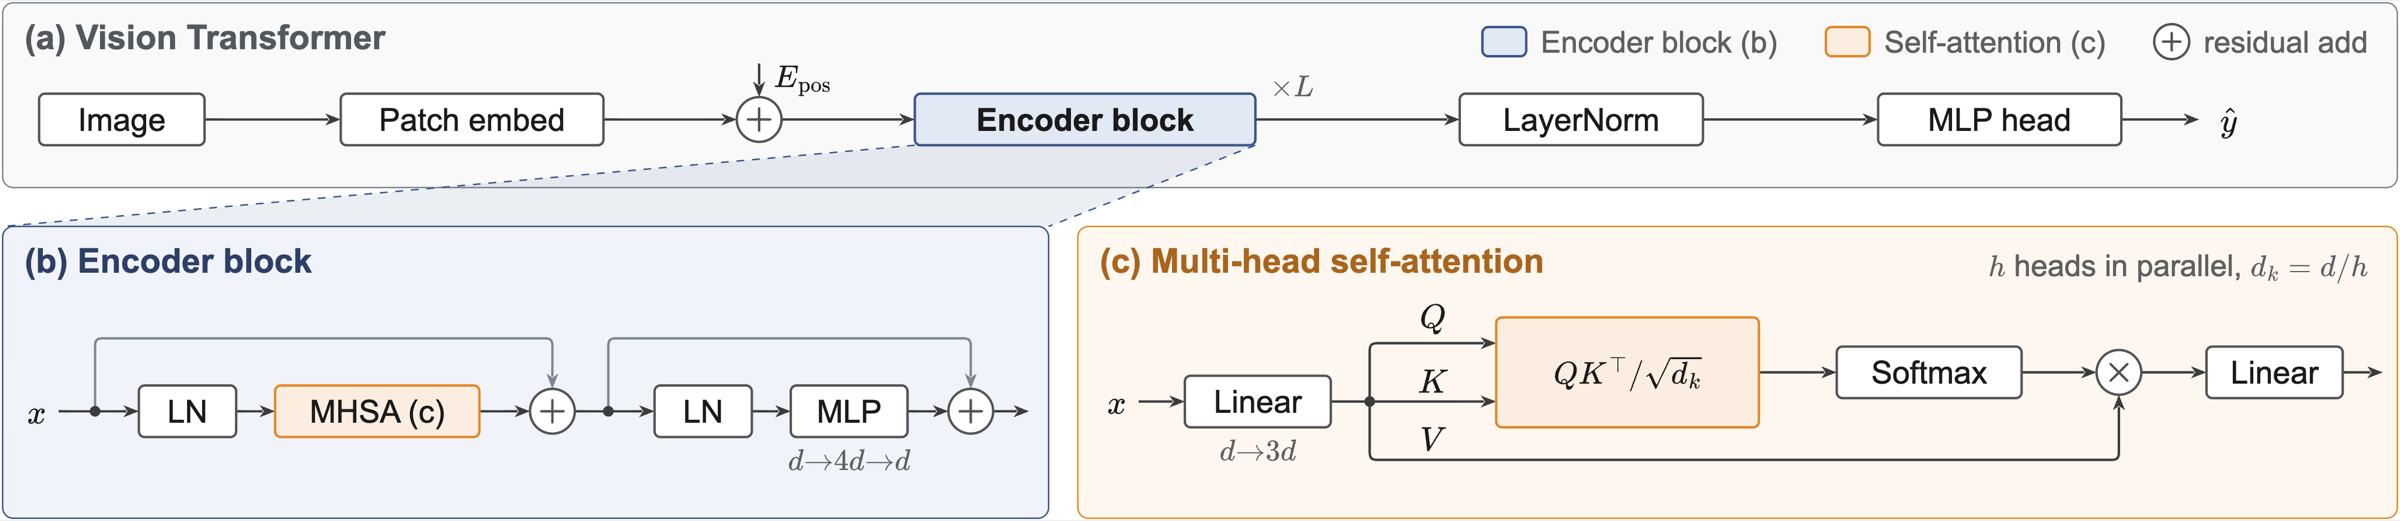
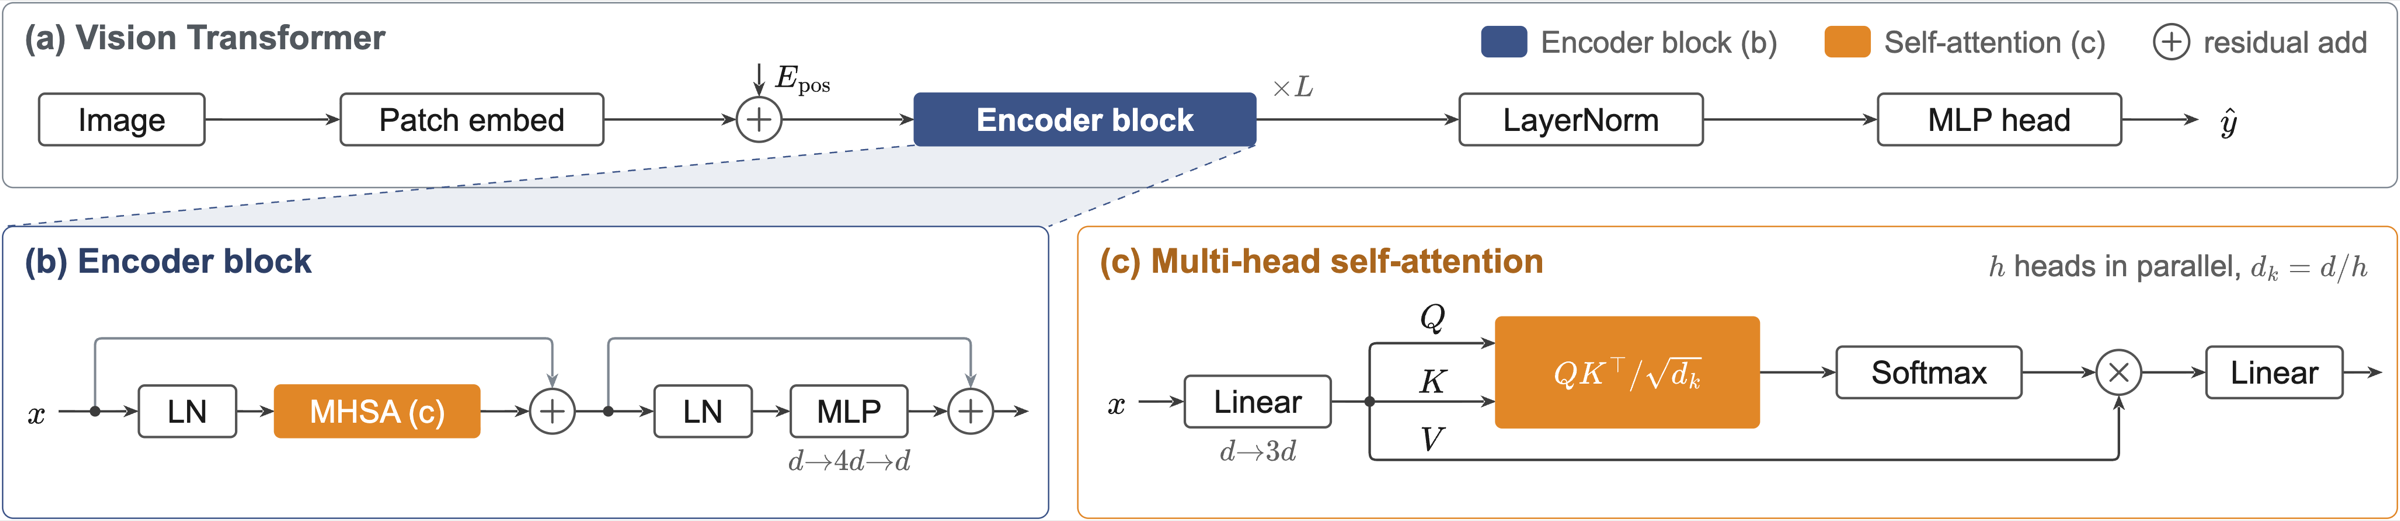
Give theme presets distinct rendering looks
Add theme.look (node fill: tint, solid, gradient or outline; hard
offset shadow; panel: tint, plain or title tab). navy now uses solid
fills with unfilled panels, slate uses gradients, square corners and
title tabs, terracotta uses heavy outlines with offset shadows.
Regenerate the theme images and document the new fields.

diff --git a/skills/pt-perfect/assets/kit/scene.tsx b/skills/pt-perfect/assets/kit/scene.tsx
@@ -88,6 +88,18 @@ export class Scene {
     if (!t) throw new Error(`Unknown tone "${name}"`);
     return t;
   }
+  /** Fill and text colour of a node in the theme's look; an explicit fill is kept as given. */
+  private paint(name: string | undefined, fill?: string): { fill: string; text: string } {
+    const T = this.theme, tone = this.tone(name), look = T.look.node;
+    if (fill) return { fill, text: T.ink };
+    if (look === 'outline') return { fill: T.paper, text: T.ink };
+    if (!name || name === 'neutral' || look === 'tint') return { fill: tone.fill, text: T.ink };
+    if (look === 'solid') return { fill: tone.stroke, text: T.paper };
+    const id = `g${tone.fill.slice(1)}`;
+    this.defs.set(id, <linearGradient key={id} id={id} x1="0" y1="0" x2="0" y2="1"><stop offset="0" stopColor={mix(tone.fill, T.paper, 0.75)} /><stop offset="1" stopColor={mix(tone.fill, tone.stroke, 0.22)} /></linearGradient>);
+    return { fill: `url(#${id})`, text: T.ink };
+  }
+  private defs = new Map<string, ReactNode>();
   private push(layer: Layer, el: ReactNode) { this.layers[layer].push(<g key={this.n++}>{el}</g>); }
   private register(item: Item) {
     if (this.items.some(i => i.id === item.id)) throw new Error(`Duplicate id "${item.id}"`);
@@ -179,10 +191,12 @@ export class Scene {
     const x = spec.x ?? (spec.cx ?? 0) - w / 2, y = spec.y ?? (spec.cy ?? 0) - h / 2;
     const box = { x, y, w, h };
     this.register({ id, kind: 'node', box, group: spec.group });
-    this.push('body', <rect data-id={id} x={r(x)} y={r(y)} width={r(w)} height={r(h)} rx={spec.radius ?? T.radius} fill={spec.fill ?? tone.fill} stroke={tone.stroke} strokeWidth={T.stroke.node} strokeDasharray={spec.dash ? '2.4 1.8' : undefined} />);
+    const rx = spec.radius ?? T.radius, sh = T.look.shadow, paint = this.paint(spec.tone, spec.fill);
+    if (sh > 0) this.push('back', <rect x={r(x + sh)} y={r(y + sh)} width={r(w)} height={r(h)} rx={rx} fill={tone.stroke} />);
+    this.push('body', <rect data-id={id} x={r(x)} y={r(y)} width={r(w)} height={r(h)} rx={rx} fill={paint.fill} stroke={tone.stroke} strokeWidth={T.stroke.node} strokeDasharray={spec.dash ? '2.4 1.8' : undefined} />);
     if (lines.length) {
       const first = y + h / 2 - optical / 2 + lines[0].cap;
-      lines.forEach((l, i) => this.label(`${id}.${i}`, l, { x: x + w / 2, y: first + base[i], color: spec.color ?? T.ink, inside: id, pivot: spec.vertical ? [x + w / 2, y + h / 2] : undefined }));
+      lines.forEach((l, i) => this.label(`${id}.${i}`, l, { x: x + w / 2, y: first + base[i], color: spec.color ?? paint.text, inside: id, pivot: spec.vertical ? [x + w / 2, y + h / 2] : undefined }));
     }
     return box;
   }
@@ -262,11 +276,17 @@ export class Scene {
    */
   panel(id: string, box: Box, o: { title?: Text; tone?: string; dash?: boolean; fill?: string | false; at?: 'tl' | 'tr' | 'tc' | 'below'; size?: number; color?: string; pad?: number } = {}): Box {
     const tone = this.tone(o.tone ?? 'grey'), T = this.theme, pad = o.pad ?? 4.5, at = o.at ?? 'tl';
-    this.region(id, box, { tone: o.tone ?? 'grey', dash: o.dash ?? false, fill: o.fill ?? mix(tone.fill, T.paper, 0.5) });
+    const look = T.look.panel, tab = look === 'tab' && at === 'tl' && !!o.title;
+    this.region(id, box, { tone: o.tone ?? 'grey', dash: o.dash ?? false, fill: o.fill ?? (look === 'tint' ? mix(tone.fill, T.paper, 0.5) : false) });
     if (o.title) {
       const l = this.line(o.title, { size: o.size ?? T.size.label, bold: true });
+      if (tab) {
+        // Filled tab in the corner, sized to the title so it takes no room from the panel's content.
+        const w = l.w + 2 * pad, h = l.cap + 1.6 * pad, R = T.radius + 1, c = Math.min(R, h / 2);
+        this.push('back', <path d={`M${r(box.x)} ${r(box.y + h)}V${r(box.y + R)}a${R} ${R} 0 0 1 ${R} ${-R}H${r(box.x + w)}V${r(box.y + h - c)}a${c} ${c} 0 0 1 ${-c} ${c}Z`} fill={tone.stroke} />);
+      }
       if (at === 'below') this.label(`${id}.title`, l, { x: cx(box), y: bottom(box) + 4, ax: 'c', ay: 'top', color: o.color ?? T.ink });
-      else this.label(`${id}.title`, l, { x: at === 'tl' ? box.x + pad : at === 'tr' ? right(box) - pad : cx(box), y: box.y + pad, ax: at === 'tl' ? 'l' : at === 'tr' ? 'r' : 'c', ay: 'top', color: o.color ?? tone.text });
+      else this.label(`${id}.title`, l, { x: at === 'tl' ? box.x + pad : at === 'tr' ? right(box) - pad : cx(box), y: box.y + pad * (tab ? 0.8 : 1), ax: at === 'tl' ? 'l' : at === 'tr' ? 'r' : 'c', ay: 'top', color: o.color ?? (tab ? T.paper : tone.text) });
     }
     return box;
   }
@@ -306,7 +326,7 @@ export class Scene {
       const sw = column ? colW : symW(e), sx = x + sw / 2, eid = `${id}.${i}`;
       if (e.op) boxes.push(this.op(eid, e.op, { cx: sx, cy: y, r: R, tone: e.tone }));
       else if (e.icon) boxes.push(this.icon(eid, e.icon, { cx: sx, cy: y, size: 7, tone: e.tone }));
-      else if (e.swatch) { const t = this.tone(e.swatch); boxes.push(this.raw(eid, <rect x={r(sx - 4.5)} y={r(y - 3)} width={9} height={6} rx={1.2} fill={e.fill ?? t.fill} stroke={t.stroke} strokeWidth={T.stroke.node} />, { x: sx - 4.5, y: y - 3, w: 9, h: 6 }, { layer: 'label' })); }
+      else if (e.swatch) { const t = this.tone(e.swatch); boxes.push(this.raw(eid, <rect x={r(sx - 4.5)} y={r(y - 3)} width={9} height={6} rx={1.2} fill={this.paint(e.swatch, e.fill).fill} stroke={t.stroke} strokeWidth={T.stroke.node} />, { x: sx - 4.5, y: y - 3, w: 9, h: 6 }, { layer: 'label' })); }
       else if (e.wire) { const c = this.tone(e.wire.tone).line, L = T.arrow.length, W = T.arrow.width / 2, xe = sx + 7; boxes.push(this.raw(eid, <g><path d={`M${r(sx - 7)} ${r(y)}H${r(xe - L * 0.8)}`} stroke={c} strokeWidth={T.stroke.wire} strokeDasharray={e.wire.dash ? '2.4 1.8' : undefined} fill="none" /><path d={`M${r(xe)} ${r(y)}L${r(xe - L)} ${r(y - W)}L${r(xe - L * 0.72)} ${r(y)}L${r(xe - L)} ${r(y + W)}Z`} fill={c} /></g>, { x: sx - 7, y: y - W, w: 14, h: 2 * W }, { layer: 'label' })); }
       boxes.push(this.label(`${eid}.text`, lines[i], { x: x + sw + 3, y, ax: 'l', ay: 'mid', color: T.muted }));
       if (column) y += o.rowGap ?? 11; else x += widths[i] + gap;
@@ -393,6 +413,7 @@ export class Scene {
     const W = r(this.width), H = r(this.height);
     return <svg xmlns="http://www.w3.org/2000/svg" width={`${W}pt`} height={`${H}pt`} viewBox={`0 0 ${W} ${H}`} fontFamily={this.theme.fontFamily} role="img">
       <title>{meta.title}</title><desc>{meta.desc}</desc>
+      {this.defs.size > 0 && <defs>{[...this.defs.values()]}</defs>}
       <rect width={W} height={H} fill={this.theme.paper} />
       <g id="back">{this.layers.back}</g><g id="wires">{this.layers.wire}</g><g id="body">{this.layers.body}</g><g id="labels">{this.layers.label}</g>
     </svg>;

diff --git a/skills/pt-perfect/assets/kit/themes.ts b/skills/pt-perfect/assets/kit/themes.ts
@@ -31,7 +31,7 @@ const palette = (t: Theme, ink: string, c: { grey: string; blue: string; green: 
 export const themes: Record<string, (t: Theme) => void> = {
   /** Default: pastel fills with low-saturation hues, Times, rounded corners. */
   pastel: () => {},
-  /** Navy-led NPG-like hues, sans-serif at 5-7 pt, one dark ink, thin lines. */
+  /** Navy-led NPG-like hues as solid fills with white text, sans-serif at 5-7 pt, thin lines, unfilled panels. */
   navy: t => {
     sans(t);
     palette(t, '#1A1A1A', { grey: '#7E8791', blue: '#3C5488', green: '#00A087', orange: '#E18727', purple: '#7E6148', red: '#DC4B37' }, { fill: 0.86, text: 0.25 });
@@ -40,23 +40,26 @@ export const themes: Record<string, (t: Theme) => void> = {
     t.tones.blue.fill = '#E1E9F4'; t.tones.grey.fill = blend('#7E8791', '#FFFFFF', 0.9);
     t.size = { title: 7, label: 6.5, note: 6 }; t.minPt = 5;
     t.stroke = { node: 0.5, wire: 0.5, hair: 0.3 }; t.radius = 1.2; t.wireRadius = 1.4; t.arrow = { length: 3.2, width: 2.5 };
+    t.look = { node: 'solid', shadow: 0, panel: 'plain' };
   },
-  /** Slate neutrals with one blue accent, near-square corners. */
+  /** Slate neutrals with one blue accent, square corners, top-lit gradient fills, panel titles on filled tabs. */
   slate: t => {
     // Secondary tones are desaturated (slate green, taupe, slate violet) so blue stays the only accent
     // while every tone remains distinguishable from grey and from each other.
     palette(t, '#1F2933', { grey: '#7B8794', blue: '#1F5FA8', green: '#5C7A6E', orange: '#8A7560', purple: '#6A6585', red: '#B03A2E' }, { fill: 0.82 });
     t.tones.grey = { ...t.tones.grey, fill: blend('#7B8794', '#FFFFFF', 0.9) };
     t.tones.blue = ramp('#1F5FA8', { fill: 0.84 });
-    t.radius = 0.6; t.wireRadius = 1; t.stroke = { node: 0.6, wire: 0.6, hair: 0.35 };
+    t.radius = 0; t.wireRadius = 0; t.stroke = { node: 0.6, wire: 0.6, hair: 0.5 };
+    t.look = { node: 'gradient', shadow: 0, panel: 'tab' };
   },
-  /** Teal and terracotta accents on pale warm fills. */
+  /** Teal and terracotta accents on pale warm fills, heavy outlines, hard offset shadows. */
   terracotta: t => {
     t.paper = '#FFFFFF';
     palette(t, '#33302C', { grey: '#9A948B', blue: '#3F7C85', green: '#6B8F71', orange: '#C2693D', purple: '#8A6F92', red: '#B4514A' }, { fill: 0.86 });
     // Warm only the context tone; warming the accents turns the teal fill muddy.
     t.tones.grey.fill = blend(t.tones.grey.fill, '#FFF4E6', 0.5);
-    t.radius = 3;
+    t.radius = 3; t.stroke = { node: 0.9, wire: 0.8, hair: 0.5 };
+    t.look = { node: 'tint', shadow: 1.3, panel: 'tint' };
   },
   /** Okabe-Ito hues: distinguishable under the common colour-vision deficiencies. */
   'okabe-ito': t => {

diff --git a/skills/pt-perfect/assets/kit/theme.ts b/skills/pt-perfect/assets/kit/theme.ts
@@ -21,6 +21,12 @@ export type Theme = {
   arrow: { length: number; width: number };
   pad: { x: number; y: number };   // node padding around content ink
   clearance: number;               // audit: wire-to-label / label-to-label distance
+  /** Rendering treatment, independent of the palette. */
+  look: {
+    node: 'tint' | 'solid' | 'gradient' | 'outline'; // pale fill | saturated fill with paper-coloured text | top-lit gradient | no fill
+    shadow: number;                                   // hard offset shadow behind nodes, in pt; 0 = none
+    panel: 'tint' | 'plain' | 'tab';                  // pale fill | frame only | frame with the title on a filled tab
+  };
 };
 
 const mac = '/System/Library/Fonts/Supplemental/';
@@ -55,6 +61,7 @@ export const defaultTheme: Theme = {
   arrow: { length: 3.8, width: 3 },
   pad: { x: 5, y: 3.2 },
   clearance: 1,
+  look: { node: 'tint', shadow: 0, panel: 'tint' },
 };
 
 export const MM = 72 / 25.4; // pt per mm

diff --git a/skills/pt-perfect/references/toolkit.md b/skills/pt-perfect/references/toolkit.md
@@ -110,14 +110,14 @@ npm run typecheck
 
 ## 主题
 
-主题只改变颜色、字体与线条处理，不改变构图。七个色调名（`neutral`、`grey`、`blue`、`green`、`orange`、`purple`、`red`）是语义槽位，每个预设都会填满，因此同一份源码可以直接切换主题。
+主题改变颜色、字体、线条和渲染方式（填充、阴影、面板标题的样式），不改变构图。七个色调名（`neutral`、`grey`、`blue`、`green`、`orange`、`purple`、`red`）是语义槽位，每个预设都会填满，因此同一份源码可以直接切换主题。
 
 | 预设 | 用途 |
 | --- | --- |
 | `pastel` | 默认。低饱和色相配浅色填充，Times，柔和圆角 |
-| `navy` | 以藏青为主的 NPG 色相，无衬线字体（Arial），5–7 pt 字号，细线；适合字号与线宽要求较小的版面 |
-| `slate` | 深灰中性色为底，蓝色为唯一强调色，其余色调降低饱和度，近直角；适合机理图 |
-| `terracotta` | 青绿与赭红强调色，配暖色浅底 |
+| `navy` | 以藏青为主的 NPG 色相；有色模块为实心填充配白字，面板只留边框；无衬线字体（Arial），5–7 pt 字号，细线 |
+| `slate` | 深灰中性色为底，蓝色为唯一强调色；直角，模块为自上而下的渐变填充，面板标题置于实心色块上 |
+| `terracotta` | 青绿与赭红强调色，配暖色浅底；粗描边，模块带硬边偏移阴影 |
 | `okabe-ito` | Okabe–Ito 配色，在常见色觉缺陷下仍可区分 |
 | `mono` | 灰度，用于检查黑白印刷下各色调能否区分 |
 
@@ -127,6 +127,20 @@ npm run typecheck
 theme: 'navy',                                  // 使用预设
 theme: ['navy', t => { t.size.label = 6.5; }],  // 预设后再做调整，按顺序执行
 ```
+
+渲染方式由 `theme.look` 控制，可以与任意配色组合：
+
+| 字段 | 取值 |
+| --- | --- |
+| `look.node` | `'tint'` 浅色填充（默认）；`'solid'` 以色调的描边色实心填充，文字取纸色；`'gradient'` 自上而下的渐变；`'outline'` 不填充 |
+| `look.shadow` | 模块右下方硬边阴影的偏移量（pt），0 为无 |
+| `look.panel` | `'tint'` 浅色底（默认）；`'plain'` 只留边框；`'tab'` 标题置于左上角的实心色块上（仅对左上角标题生效） |
+
+```ts
+theme: ['okabe-ito', t => { t.look.node = 'solid'; }],
+```
+
+`neutral` 色调的模块在各种方式下都保持纸色底；写了 `fill` 的模块按给定颜色绘制。阴影不参与审计，偏移量宜不超过 1.5 pt。
 
 命令行 `--theme <预设>` 替换图中写定的预设，保留其中的调整函数，用于不改源码比较各主题，例如 `npm run build -- --theme mono`。未知的预设名会报错并列出可用名称。
 

diff --git a/skills/pt-perfect/SKILL.md b/skills/pt-perfect/SKILL.md
@@ -31,7 +31,7 @@ description: Build publication-quality paper figures (method/framework diagrams,
 - **按视觉中心对齐，按墨迹留白。** 文字与公式共用一条基线，垂直居中以大写字高为准；模块尺寸与碰撞检查使用含上下标的真实墨迹范围。这是公式不出框、标签不错位的原因。
 - **连线从端口出发并声明起止对象。** `wire(id, [port(a,'right'), port(b,'left')], { from, to })`。审计据此核对端点落在边框上、未穿过其他对象。
 - **真实素材原样嵌入。** 图片按字节嵌入并可校验 sha256；派生图像在来源记录中写明公式、参数、显示变换。概念示意不得冒充实验结果。
-- **主题按用户偏好选择。** 先询问用户偏好的配色与字体（衬线或无衬线），据此选用 `navy`、`slate` 等预设；未说明时使用默认的 `pastel`。颜色一律取自色调或 `s.theme`，以便整体切换，见 [references/toolkit.md](references/toolkit.md) 的“主题”一节。
+- **主题按用户偏好选择。** 先询问用户偏好的配色、字体（衬线或无衬线）和渲染方式（浅色填充、实心、渐变、阴影），据此选用 `navy`、`slate` 等预设；未说明时使用默认的 `pastel`。颜色一律取自色调或 `s.theme`，以便整体切换，见 [references/toolkit.md](references/toolkit.md) 的“主题”一节。
 - **公式保留 TeX 源。** 行内写 `'Anchor $a = f(y)$'`，由 MathJax 转为矢量路径；符号需与正文逐一核对。
 
 ## 素材与来源

diff --git a/README.md b/README.md
@@ -39,7 +39,7 @@ Both are 174 mm wide, pass the audit with 0 errors and 0 warnings, and are built
 
 ## Themes
 
-A theme changes colours, type and line treatment, not the layout. Tone names (`blue`, `orange`, ...) are semantic slots that every preset fills, so the same source switches theme without edits. Below is the ViT module figure from the gallery in each preset.
+A theme changes colours, type and rendering (fills, shadows, panel titles), not the layout. Tone names (`blue`, `orange`, ...) are semantic slots that every preset fills, so the same source switches theme without edits. Below is the ViT module figure from the gallery in each preset.
 
 <table>
 <tr>

diff --git a/README.zh-CN.md b/README.zh-CN.md
@@ -39,7 +39,7 @@
 
 ## 主题
 
-主题只改变颜色、字体与线条处理，不改变版面。色调名（`blue`、`orange` 等）是语义槽位，每个预设都会填满，因此同一份源码无需修改即可切换主题。下图为上文的 ViT 模块图在各预设下的效果。
+主题改变颜色、字体和渲染方式（填充、阴影、面板标题的样式），不改变版面。色调名（`blue`、`orange` 等）是语义槽位，每个预设都会填满，因此同一份源码无需修改即可切换主题。下图为上文的 ViT 模块图在各预设下的效果。
 
 <table>
 <tr>
